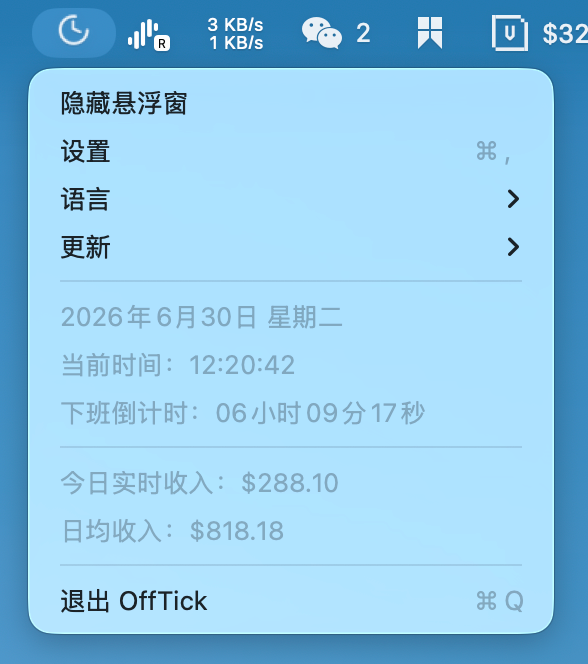
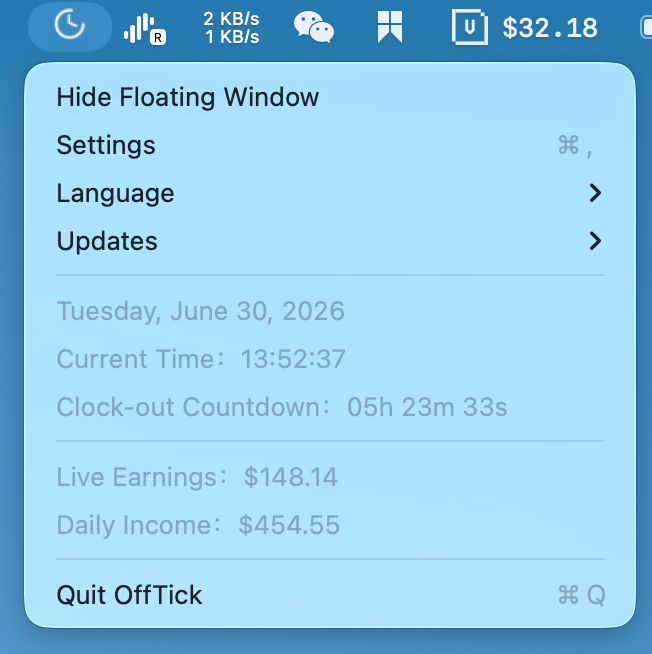
docs: refresh readme media

diff --git a/README.md b/README.md
@@ -3,9 +3,9 @@
 OffTick is a lightweight macOS menu bar app that keeps a floating workday timer on screen. It shows the current date and time, counts down to clock-out, and can estimate live earnings for the day.
 
 <p>
-  <img src="Assets/offtick-demo.gif" alt="OffTick demo" width="260">
-  <img src="Assets/offtick-menu.png" alt="OffTick menu" width="220">
-  <img src="Assets/offtick-settings.png" alt="OffTick settings" width="220">
+  <img src="Assets/offtick-demo.gif" alt="OffTick demo" height="220">
+  <img src="Assets/offtick-menu.png" alt="OffTick menu" height="220">
+  <img src="Assets/offtick-settings.png" alt="OffTick settings" height="220">
 </p>
 
 中文说明见下方：[简体中文](#简体中文)。